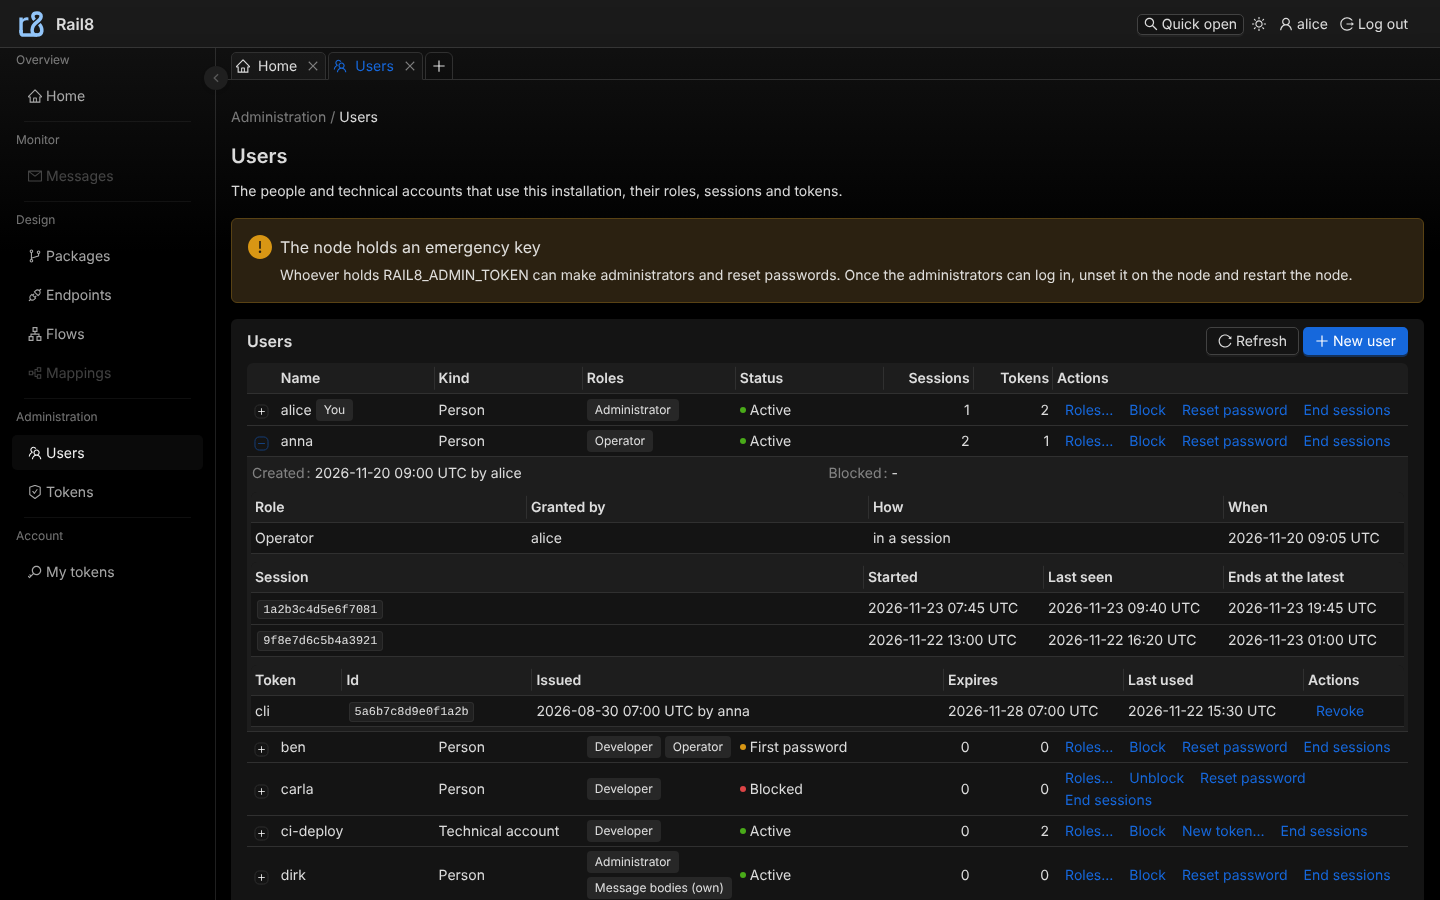
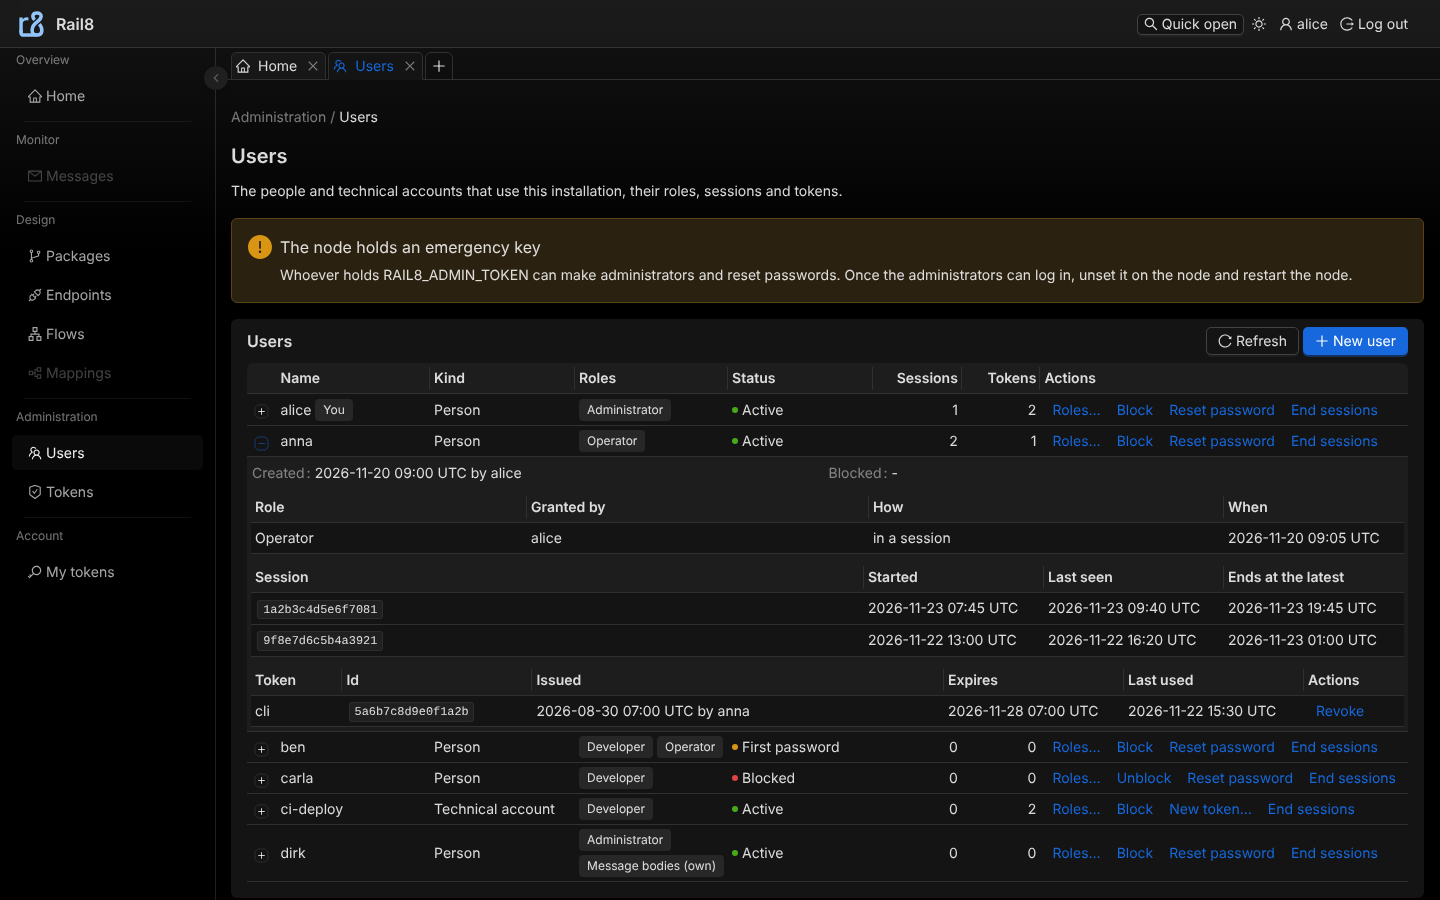
A change of one's own roles shows at once, and a blocked user's actions stay on one line
The page read its session once, so an administrator who gave or took a role
of their own kept the old access in the page until a reload. After a change
of the logged-in user's own roles, the page reads GET /session again and
menus, screens and controls follow the new roles.

In the row of a blocked user, End sessions wrapped onto a second line. The
row's actions no longer wrap.

Closes #418

Claude-Session: https://claude.ai/code/session_018sN5AW4wCZyPDUct2XvPM2

diff --git a/ui/src/users/Users.browser.test.tsx b/ui/src/users/Users.browser.test.tsx
@@ -3,6 +3,7 @@ import { afterEach, describe, expect, test } from 'vitest';
 import { page, userEvent } from 'vitest/browser';
 import { SessionGate } from '../SessionGate';
 import { sessionClient, type Me } from '../session';
+import type { Screen } from '../screens';
 import { Shell } from '../Shell';
 import type { TokensApi, User, UsersApi } from './api';
 import { fakeTokensApi, fakeUsersApi, type FakeUsers } from './fake';
@@ -23,6 +24,16 @@ const ALICE: Me = {
   expiresAt: '2026-11-24T22:00:00Z',
   emergencyKey: false,
   session: '0123456789abcdef',
+};
+
+/** A screen that needs the operator role, to see the menu follow the caller's roles. */
+const MESSAGES: Screen = { id: 'messages', title: 'Messages', group: 'Monitor', action: 'message.read', render: () => 'Messages' };
+
+/** The session the node gives alice over `state`: the roles she holds there now, and their actions. */
+const aliceIn = (state: FakeUsers) => (): Me => {
+  const roles = state.users.find((u) => u.name === 'alice')!.roles.map((g) => g.role);
+  const actions = ['self.read', ...(roles.includes('administrator') ? ADMIN_ACTIONS : []), ...(roles.includes('operator') ? ['message.read'] : [])];
+  return { ...ALICE, roles, actions: [...new Set(actions)] };
 };
 
 const user = (name: string, rest: Partial<User> = {}): User => ({
@@ -70,15 +81,19 @@ afterEach(() => {
   document.body.innerHTML = '';
 });
 
-/** The Users screen of a Shell behind the session's gate, as `me`, over the users and tokens of `state`, which `me` acts on. */
+/**
+ * The Users screen of a Shell behind the session's gate, as `me`, over the users and tokens of `state`, which `me` acts
+ * on. `me` may be a function, which gives the session each time the page reads it.
+ */
 function render(
   state: FakeUsers = seed(),
-  me: Me = ALICE,
-  api: UsersApi = fakeUsersApi(state, me.name, () => NOW),
-  tokens: TokensApi = fakeTokensApi(state, me.name, () => NOW, 'alice password'),
+  me: Me | (() => Me) = ALICE,
+  api: UsersApi = fakeUsersApi(state, (typeof me === 'function' ? me() : me).name, () => NOW),
+  tokens: TokensApi = fakeTokensApi(state, (typeof me === 'function' ? me() : me).name, () => NOW, 'alice password'),
 ) {
+  const session = typeof me === 'function' ? me : () => me;
   const client = sessionClient({
-    send: (async () => new Response(JSON.stringify(me), { status: 200, headers: { 'content-type': 'application/json' } })) as typeof fetch,
+    send: (async () => new Response(JSON.stringify(session()), { status: 200, headers: { 'content-type': 'application/json' } })) as typeof fetch,
     reload: () => undefined,
     timer: () => new Promise(() => undefined),
   });
@@ -87,7 +102,7 @@ function render(
   root = createRoot(host);
   root.render(
     <SessionGate client={client}>
-      <Shell screens={[usersScreen(api, tokens)]} start="users" />
+      <Shell screens={[usersScreen(api, tokens), MESSAGES]} start="users" />
     </SessionGate>,
   );
   return state;
@@ -97,6 +112,7 @@ const table = () => page.getByRole('table', { name: 'Users' });
 const rowOf = (name: string) => table().getByRole('row').filter({ has: page.getByText(name, { exact: true }) }).first();
 const button = (name: string) => page.getByRole('button', { name, exact: true });
 const dialog = () => page.getByRole('dialog');
+const menuItem = (name: string) => page.getByRole('navigation', { name: 'Screens' }).getByRole('menuitem', { name, exact: true });
 /** Issue in the open dialog; once it has been loading, antd keeps its hidden loading icon in the name. */
 const issue = () => dialog().getByRole('button', { name: /Issue$/ });
 /** Runs `action` on the user `row`, confirming in that user's popover: another may still be fading out. */
@@ -219,6 +235,51 @@ describe('the Users screen', () => {
     await rowOf('anna').getByRole('button', { name: 'Roles…' }).click();
     await dialog().getByLabelText('Message bodies').click();
     expect(page.getByText('You give yourself the message bodies role').query()).toBeNull();
+  });
+
+  test('shows a role the caller gives themselves at once, without a reload', async () => {
+    const state = seed();
+    render(state, aliceIn(state));
+    await expect.element(menuItem('Messages')).toHaveAttribute('aria-disabled', 'true');
+    await rowOf('alice').getByRole('button', { name: 'Roles…' }).click();
+    await dialog().getByLabelText('Operator').click();
+    await button('Save').click();
+    await expect.element(page.getByText('alice gets Operator')).toBeVisible();
+    await expect.element(menuItem('Messages')).not.toHaveAttribute('aria-disabled', 'true');
+  });
+
+  test('takes away at once what a role the caller takes from themselves allowed', async () => {
+    const state = seed();
+    state.users = state.users.map((u) =>
+      u.name === 'alice' ? { ...u, roles: [...u.roles, { role: 'operator', grantedAt: '2026-11-21T10:00:00Z', grantedBy: 'alice', grantedVia: 'session' }] } : u,
+    );
+    render(state, aliceIn(state));
+    await expect.element(menuItem('Messages')).not.toHaveAttribute('aria-disabled', 'true');
+    await rowOf('alice').getByRole('button', { name: 'Roles…' }).click();
+    await dialog().getByLabelText('Operator').click();
+    await button('Save').click();
+    await expect.element(page.getByText('alice loses Operator')).toBeVisible();
+    await expect.element(menuItem('Messages')).toHaveAttribute('aria-disabled', 'true');
+  });
+
+  test("keeps the actions of a blocked user's row on one line", async () => {
+    for (const [width, height] of [
+      [1440, 900],
+      [1920, 1080],
+    ] as const) {
+      await page.viewport(width, height);
+      render();
+      await expect.element(rowOf('bert').getByRole('button', { name: 'End sessions' })).toBeVisible();
+      const tops = rowOf('bert')
+        .getByRole('button')
+        .elements()
+        .filter((b) => !b.getAttribute('aria-label')?.match(/expand row/i))
+        .map((b) => b.getBoundingClientRect().top);
+      expect(tops.length, `${width}`).toBe(4);
+      expect(new Set(tops).size, `the actions at ${width} px`).toBe(1);
+      root?.unmount();
+      host?.remove();
+    }
   });
 
   test('shows the invariants the node keeps as plain messages', async () => {

diff --git a/ui/src/session.ts b/ui/src/session.ts
@@ -11,8 +11,8 @@
  * - A 401 means the session ended. The page asks for the login again over its open tabs, and holds the call. From the
  *   first 401 on nothing new is sent; every new call is held too.
  * - A 409 `session-changed` means the browser holds another session than the page names, after a login in another tab.
- *   The page reads `GET /session`: for the same user it takes the new id and sends the call again once, and a second
- *   409 reloads the page; for another user it reloads; when no session is left it holds the call as after a 401.
+ *   The page reads `GET /session`: for the same user it takes the new id and roles and sends the call again once, and a
+ *   second 409 reloads the page; for another user it reloads; when no session is left it holds the call as after a 401.
  * - A held call keeps its method, its headers and its body; only `Rail8-Session` changes. At most 100 calls and 32 MiB of
  *   their bodies are held; beyond that a call gets its 401. A call whose signal aborts is no longer held and rejects
  *   with the signal's reason.
@@ -20,6 +20,9 @@
  *   a late answer of the ended session cannot clear the cookie of the new one. The same user logged in again sends
  *   each held call once more; a first password asks for the change first; another user reloads the page, and no held
  *   call is settled.
+ *
+ * After a change of the caller's own roles the page reads `GET /session` again, the same way, so that what it allows
+ * follows the new roles at once.
  *
  * The session's own calls, `GET /session`, the login, the password change and the logout, go straight out and are
  * never held.
@@ -77,6 +80,11 @@ export interface SessionClient {
   changePassword(current: string, next: string): Promise<void>;
   /** Ends the session and reloads the page. */
   logout(): Promise<void>;
+  /**
+   * Reads `GET /session` again while logged in, after a change of the caller's own roles: the same user's answer gives
+   * the new roles and actions, another user reloads the page, a 401 asks for the login, and no answer keeps the state.
+   */
+  refresh(): Promise<void>;
   /** True when the caller may do `action`, else why not. */
   may(action: string): true | Refusal;
 }
@@ -234,6 +242,7 @@ export function sessionClient(deps: { send: typeof fetch; reload: () => void; ti
           return 'other' as const;
         }
         adopt(me);
+        if (current.kind === 'in') set({ kind: 'in', me });
         return 'same' as const;
       } catch {
         return 'unknown' as const;
@@ -390,6 +399,10 @@ export function sessionClient(deps: { send: typeof fetch; reload: () => void; ti
       }
       held.splice(0).forEach((call) => call.refuse());
       reload();
+    },
+
+    async refresh() {
+      if (current.kind === 'in') await recheck();
     },
 
     may(action) {

diff --git a/ui/src/session.test.ts b/ui/src/session.test.ts
@@ -93,7 +93,9 @@ describe('the start', () => {
     expect(w.client.state()).toEqual({ kind: 'failed', error: 'the node is busy', retryAfter: '1' });
 
     start = w.client.start();
-    w.open('/session')[0]!.fail(new TypeError('offline'));
+    const lost = w.open('/session')[0]!;
+    (lost as { done?: true }).done = true;
+    lost.fail(new TypeError('offline'));
     await start;
     expect(w.client.state()).toMatchObject({ kind: 'failed' });
 
@@ -395,6 +397,47 @@ describe('the session\'s own calls', () => {
     await w.answer('/session', json(401, { error: 'x', code: 'login-refused' }));
     await login;
     expect(w.client.state()).toEqual({ kind: 'out', refusal: { code: 'login-refused' } });
+  });
+
+  it('reads the session again after a change of its own roles: new roles for the same user, a reload for another', async () => {
+    const w = world();
+    await w.started();
+    const changed: Me = { ...ME, roles: ['operator', 'developer'], actions: ['message.read', 'package.deploy'], refused: {} };
+    const refresh = w.client.refresh();
+    await w.answer('/session', json(200, changed));
+    await refresh;
+    expect(w.client.state()).toEqual({ kind: 'in', me: changed });
+    expect(w.client.may('package.deploy')).toBe(true);
+
+    const other = world();
+    await other.started();
+    const read = other.client.refresh();
+    await other.answer('/session', json(200, { ...ME, name: 'bob' }));
+    await read;
+    expect(other.reloads()).toBe(1);
+  });
+
+  it('keeps the state when the session read again gives no answer, and asks for the login on its 401', async () => {
+    const w = world();
+    await w.started();
+    const refresh = w.client.refresh();
+    await w.settle();
+    const lost = w.open('/session')[0]!;
+    (lost as { done?: true }).done = true;
+    lost.fail(new TypeError('offline'));
+    await refresh;
+    expect(w.client.state()).toEqual({ kind: 'in', me: ME });
+
+    const ended = w.client.refresh();
+    await w.answer('/session', json(401, { code: 'session-ended' }));
+    await ended;
+    expect(w.client.state()).toEqual({ kind: 'asking', me: ME });
+  });
+
+  it('reads nothing again before the session is known', async () => {
+    const w = world();
+    await w.client.refresh();
+    expect(w.calls).toHaveLength(0);
   });
 
   it('logs out naming the session and reloads, whatever the answer', async () => {

diff --git a/ui/src/users/UserList.tsx b/ui/src/users/UserList.tsx
@@ -5,7 +5,7 @@ import { useCallback, useEffect, useState, type ReactNode } from 'react';
 import { MountedModal } from '../MountedModal';
 import { Page } from '../Page';
 import { ReadSpinner } from '../ReadSpinner';
-import { Allowed, useAccess, useMe } from '../SessionGate';
+import { Allowed, useAccess, useMe, useSessionRefresh } from '../SessionGate';
 import { ROLES, type Grant, type Kind, type LiveSession, type LiveToken, type Role, type TokensApi, type User, type UsersApi } from './api';
 import { IssueTokenDialog } from './IssueTokenDialog';
 import { tokenColumns } from './tokenColumns';
@@ -76,6 +76,7 @@ export function UserList({ api, tokens }: { api: UsersApi; tokens: TokensApi }) 
   const refresh = useCallback(() => setAsked((n) => n + 1), []);
   const me = useMe();
   const access = useAccess();
+  const refreshSession = useSessionRefresh();
   const { notification } = App.useApp();
 
   useEffect(() => {
@@ -105,7 +106,7 @@ export function UserList({ api, tokens }: { api: UsersApi; tokens: TokensApi }) 
   const rolesAllowed = rolesMay.includes(true) ? true : rolesMay[0];
 
   const actions = (user: User): ReactNode => (
-    <Space size={0} wrap>
+    <Space size={0}>
       <Tooltip title={rolesAllowed === true ? undefined : rolesAllowed}>
         <Button type="link" size="small" disabled={rolesAllowed !== true} onClick={() => setDialog({ kind: 'roles', user })}>
           Roles…
@@ -255,6 +256,8 @@ export function UserList({ api, tokens }: { api: UsersApi; tokens: TokensApi }) 
           onClose={(changed) => {
             setDialog(null);
             if (changed !== null) notification.success({ title: changed, role: 'status' });
+            // what the page allows follows the caller's own new roles
+            if (changed !== null && dialog.user.name === me?.name) void refreshSession();
             refresh();
           }}
         />

diff --git a/ui/src/SessionGate.tsx b/ui/src/SessionGate.tsx
@@ -49,6 +49,12 @@ export function useMe(): Me | null {
   return state?.kind === 'in' || state?.kind === 'asking' ? state.me : null;
 }
 
+/** What reads the session again after a change of the caller's own roles; it does nothing without a gate. */
+export function useSessionRefresh(): () => Promise<void> {
+  const client = useContext(SessionContext);
+  return () => client?.refresh() ?? Promise.resolve();
+}
+
 /** True when the caller may do `action`, else the words for why not. */
 export function useMay(action: string): true | string {
   return useAccess()(action);
